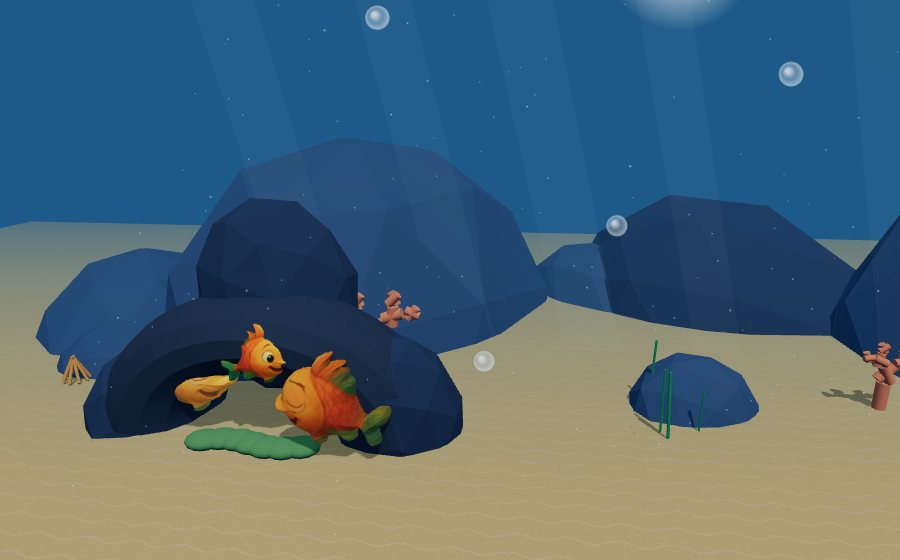
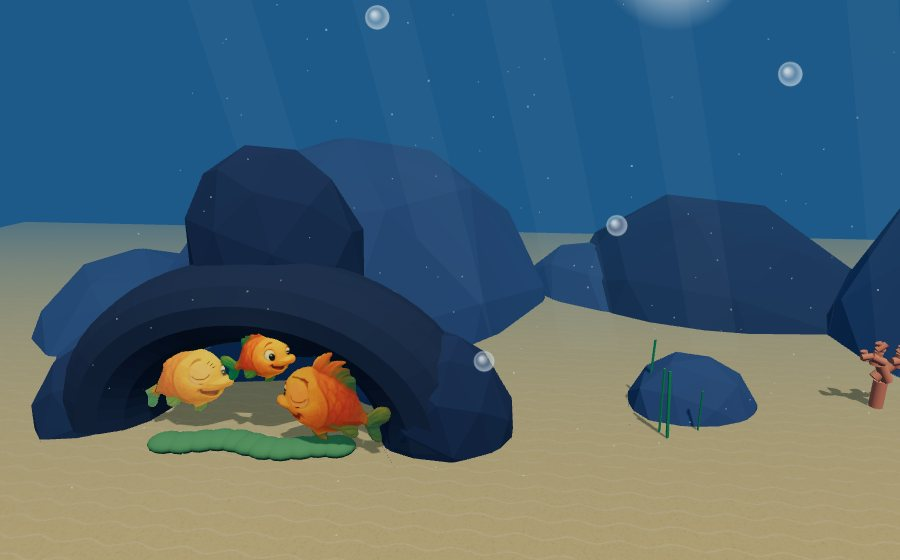
Fidibus 3D: Fische feiner – flache Flossen, sanfteres Licht, größere Höhle
- Dicke dünner Teile (Flossen) auf den Randabstand begrenzt, flacheres
  Superellipsen-Profil statt Kugel: Flossen bleiben zart wie in Version 1
- Figuren überwiegend selbstleuchtend, 3D-Licht formt nur noch leicht
  nach (keine doppelte Schattierung, Farben wie im Buch)
- Alpha nur 3 px nach außen gehärtet, Randknoten auf der Kontur: kein
  Fransen-Saum mehr
- Schwanzwedeln gedämpft, Kamera-Seitenversatz skaliert mit dem Abstand
- Wohnhöhle größer, Familie darin verteilt (auch nachts), Kartenbilder
  neu gerendert

Claude-Session: https://claude.ai/code/session_01UJUZeWQvUyQxZdWTLgeUri

diff --git a/fidibus3d/game.js b/fidibus3d/game.js
@@ -68,8 +68,8 @@ const G = {
   mode: 'title', t: 0, step: -1, stepData: null,
   cam: { x: HOME.x, y: 900 },
   fid: { x: HOME.x, y: HOME.y, vx: 0, vy: 0, dir: 1, tilt: 0, fin: 0, eyes: 'open', mood: 'happy', scale: 1, hidden: false },
-  mama: { x: HOME.x - 150, y: HOME.y + 40, vx: 0, vy: 0, dir: 1, tilt: 0, fin: 0, eyes: 'closed', mood: 'sleep', hidden: false },
-  papa: { x: HOME.x + 150, y: HOME.y + 50, vx: 0, vy: 0, dir: -1, tilt: 0, fin: 0, eyes: 'closed', mood: 'sleep', hidden: false },
+  mama: { x: HOME.x - 150, y: HOME.y - 20, vx: 0, vy: 0, dir: 1, tilt: 0, fin: 0, eyes: 'closed', mood: 'sleep', hidden: false },
+  papa: { x: HOME.x + 170, y: HOME.y + 50, vx: 0, vy: 0, dir: -1, tilt: 0, fin: 0, eyes: 'closed', mood: 'sleep', hidden: false },
   ctrl: null,             // welches Wesen gesteuert wird
   target: null, keys: {}, bubbles: 0, mut: 1, dark: 0, moon: 0, night: 0,
   collect: [], particles: [], hearts: [], trail: [],
@@ -249,8 +249,8 @@ $('again').addEventListener('click', () => { $('end').classList.remove('show'); 
 function startStory() {
   G.step = -1; G.bubbles = 0; G.mut = 1; G.dark = 0; G.moon = 0; G.night = 0; G.stationsDone = new Set(); G.current = 'home';
   Object.assign(G.fid, { x: HOME.x, y: HOME.y, vx: 0, vy: 0, dir: 1, eyes: 'open', mood: 'happy', hidden: false, scale: 1 });
-  Object.assign(G.mama, { x: HOME.x - 150, y: HOME.y + 40, vx: 0, vy: 0, dir: 1, eyes: 'closed', mood: 'sleep', hidden: false });
-  Object.assign(G.papa, { x: HOME.x + 150, y: HOME.y + 50, vx: 0, vy: 0, dir: -1, eyes: 'closed', mood: 'sleep', hidden: false });
+  Object.assign(G.mama, { x: HOME.x - 150, y: HOME.y - 20, vx: 0, vy: 0, dir: 1, eyes: 'closed', mood: 'sleep', hidden: false });
+  Object.assign(G.papa, { x: HOME.x + 170, y: HOME.y + 50, vx: 0, vy: 0, dir: -1, eyes: 'closed', mood: 'sleep', hidden: false });
   G.turtle.hug = 0; G.hearts = []; G.trail = []; G.homeArrived = false; G.blubbed = false; G.particles = []; G.cam.x = HOME.x; G.cam.y = 900;
   makeCollect(); if (window.FB) FB.rebuildCollect(); renderMap(); $('bubbles').textContent = '🫧 0';
   nextStep();
@@ -360,7 +360,7 @@ function update(dt) {
       G.mama.mood = G.papa.mood = 'happy';
     } else if (G.cut === 'night') {
       G.night = smooth(0, 0.5, p); G.moon = smooth(0.1, 0.7, p);
-      follow(G.fid, HOME.x + 10, HOME.y + 20, dt, 2, 250); follow(G.mama, HOME.x - 200, HOME.y - 30, dt, 2, 250); follow(G.papa, HOME.x + 230, HOME.y - 20, dt, 2, 250);
+      follow(G.fid, HOME.x + 10, HOME.y + 20, dt, 2, 250); follow(G.mama, HOME.x - 160, HOME.y - 40, dt, 2, 250); follow(G.papa, HOME.x + 200, HOME.y - 10, dt, 2, 250);
       G.mama.dir = 1; G.papa.dir = -1;
       if (p > 0.6) { G.fid.mood = 'sleep'; G.fid.dir = 1; }
       if (p > 0.85) { G.mama.eyes = G.papa.eyes = 'closed'; G.mama.mood = G.papa.mood = 'sleep'; }
@@ -447,9 +447,9 @@ for (let x = -6; x < 118; x += 5 + r3() * 6) {
 for (let i = 0; i < 150; i++) grassBlade(X(POS.grassFrom) + r3() * X(POS.grassTo - POS.grassFrom), -4 + r3() * 7, 7 + r3() * 4, i % 3 ? 0x1f5a3a : 0x2c7048, 0.14);
 // Felsspalte (Zuhause) mit Moosbett
 {
-  const arch = new THREE.Mesh(new THREE.TorusGeometry(2.6, 1.1, 14, 28, Math.PI), M(0x2f3f5c, { rough: 0.9, flat: true })); arch.position.set(X(HOME.x), Y(1300) + 0.2, -1.2); arch.scale.set(1.3, 1, 1.4); arch.castShadow = true; arch.receiveShadow = true; scene.add(arch);
-  rock(X(HOME.x) - 3.6, Y(1300) + 0.2, -1.5, 1.6); rock(X(HOME.x) + 3.6, Y(1300) + 0.3, -1.4, 1.7); rock(X(HOME.x), Y(1300) + 3.4, -2.4, 2.2);
-  for (let i = -3; i <= 3; i++) { const m = new THREE.Mesh(G_SPH2, M(0x5f9a63, { rough: 0.9 })); m.scale.set(0.5, 0.22, 0.45); m.position.set(X(HOME.x) + i * 0.45, Y(1300) + 0.12, 0.2 + Math.sin(i) * 0.15); m.receiveShadow = true; scene.add(m); }
+  const arch = new THREE.Mesh(new THREE.TorusGeometry(3.5, 1.1, 14, 28, Math.PI), M(0x2f3f5c, { rough: 0.9, flat: true })); arch.position.set(X(HOME.x), Y(1300) + 0.2, -1.2); arch.scale.set(1.3, 1, 1.4); arch.castShadow = true; arch.receiveShadow = true; scene.add(arch);
+  rock(X(HOME.x) - 4.9, Y(1300) + 0.2, -1.5, 1.7); rock(X(HOME.x) + 4.9, Y(1300) + 0.3, -1.4, 1.8); rock(X(HOME.x), Y(1300) + 4.6, -2.6, 2.4);
+  for (let i = -5; i <= 5; i++) { const m = new THREE.Mesh(G_SPH2, M(0x5f9a63, { rough: 0.9 })); m.scale.set(0.5, 0.22, 0.45); m.position.set(X(HOME.x) + i * 0.45, Y(1300) + 0.12, 0.2 + Math.sin(i) * 0.15); m.receiveShadow = true; scene.add(m); }
 }
 // Lichtstrahlen (zarte Flächen) und Plankton
 const rays = new THREE.Group(); scene.add(rays);
@@ -469,6 +469,7 @@ function spriteFrom(kind) { const arr = pool[kind]; const s = arr.find(x => !x.v
 // ───────────── Figuren ─────────────
 // Buchbilder laden (aus Version 1) und Mama/Papa daraus ableiten
 const IMG = {};
+window.BOOK_TWEAK = Object.fromEntries([...new URLSearchParams(location.search)].filter(([k]) => ['fat', 'p', 'em', 'col'].includes(k)).map(([k, v]) => [k, +v]));
 await Promise.all(['fid_happy', 'fid_talk', 'fid_sad', 'fid_worried', 'fid_sleep', 'fid_front'].map(k => new Promise(res => { const im = new Image(); im.onload = res; im.onerror = res; im.src = '../fidibus/img/' + k + '.png'; IMG[k] = im; })));
 const fidPoses = {}; for (const k in IMG) if (IMG[k].width) fidPoses[k] = { src: IMG[k], face: BOOK_SPR[k].face, w: BOOK_SPR[k].w, eyes: BOOK_EYES[k] };
 const parentPose = kind => { const p = window.FIG.parent(IMG.fid_happy, kind); return { [kind]: { src: p.c, face: p.face, w: BOOK_SPR[kind].w, eyes: p.eyes } }; };
@@ -477,10 +478,10 @@ const fidM = makeBookFish('fid', fidPoses), mamaM = makeBookFish('mama', parentP
 // Wal, Schildkröte (mit Umarmung), Seestern und Qualle: die gemalten Figuren aus Version 1, ebenfalls aufgeblasen
 const FIGS = window.FIG.build(IMG);
 const bookPose = (k, extra) => ({ src: FIGS[k].c, w: BOOK_SPR_BIG[k], eyes: FIGS[k].eyes, ...extra });
-const whaleM = makeBookFigure('whale', { whale: bookPose('whale', { tail: 'right', fat: 0.6 }) });
-const turtleM = makeBookFigure('turtle', { turtle: bookPose('turtle', { fat: 0.55 }), hug: bookPose('hug', { fat: 0.55 }) });
-const starM = makeBookFigure('star', { star: bookPose('star', { fat: 0.45 }) });
-const jellyM = makeBookFigure('jelly', { jelly: bookPose('jelly', { fat: 0.7, alphaMin: 90, res: 300 }) });
+const whaleM = makeBookFigure('whale', { whale: bookPose('whale', { tail: 'right', fat: 0.5 }) });
+const turtleM = makeBookFigure('turtle', { turtle: bookPose('turtle', { fat: 0.5 }), hug: bookPose('hug', { fat: 0.5 }) });
+const starM = makeBookFigure('star', { star: bookPose('star', { fat: 0.35 }) });
+const jellyM = makeBookFigure('jelly', { jelly: bookPose('jelly', { fat: 0.55, alphaMin: 90, res: 300 }) });
 const jellyLight = new THREE.PointLight(0xd9a6ff, 2.2, 14, 1.6); jellyLight.position.set(0, 1.5, 0.8); jellyM.add(jellyLight);
 scene.add(fidM, mamaM, papaM, whaleM, starM, jellyM, turtleM);
 const WHALE_Y = Y(660), JELLY_Y = Y(948) + 1.4;
@@ -494,7 +495,7 @@ const blink = (period, off) => { const ph = (G.t + off) % period; return ph < 0.
 
 function syncFish(m, f, kind, off) {
   m.visible = !f.hidden;
-  m.position.set(X(f.x), Y(f.y) + Math.sin(f.fin * 0.9) * 0.03, kind === 'mama' ? -0.6 : kind === 'papa' ? 0.3 : 0);
+  m.position.set(X(f.x), Y(f.y) + Math.sin(f.fin * 0.9) * 0.03, kind === 'mama' ? -0.5 : kind === 'papa' ? 0.25 : 0);
   const front = f.mood === 'front';
   const yaw = front ? 0 : (f.dir > 0 ? Math.PI : 0);
   m.rotation.set(0, yaw, (f.dir > 0 ? 1 : -1) * -f.tilt * 0.8 * (front ? 0 : 1));
@@ -537,7 +538,7 @@ function render3d(dt) {
   // Kamera: schräg von vorn, folgt dem 2D-Kamerapunkt
   const dist = (H > W ? 15 : 11.5) / zoom;
   const lx = X(G.cam.x), ly = Y(G.cam.y) + 0.4;
-  camera.position.set(lx + 1.6, ly + 2.2 + dist * 0.12, dist);
+  camera.position.set(lx + dist * 0.11, ly + 2.2 + dist * 0.12, dist);
   camera.lookAt(lx, ly, 0);
   sun.position.set(lx + 6, 26, 14); sun.target.position.set(lx, Y(1300), 0);
   renderer.render(scene, camera);

diff --git a/fidibus3d/figures3d.js b/fidibus3d/figures3d.js
@@ -333,11 +333,11 @@ function bleed(img, passes, harden = 0, alphaMin = 190) {
 function inflate(src, worldW, opts = {}) {
   const iw = src.width, ih = src.height, step = Math.max(1, Math.round(Math.max(iw, ih) / (opts.res || 130)));
   const cols = Math.ceil(iw / step) + 3, rows = Math.ceil(ih / step) + 3;
-  // Quellbild mit transparentem Rand (pad), darin geblutete Farben und nach außen gehärtetes Alpha:
-  // Die Netzkante liegt dann in opaker Textur (kein transparentes Band an der Kante, auch wenn das Bild den Rand berührt)
+  // Quellbild mit transparentem Rand (pad), darin geblutete Farben und um 3 px nach außen gehärtetes Alpha:
+  // Die auf die Kontur geschobenen Randknoten liegen in opaker Textur, alles weiter außen schneidet der Alpha-Test sauber ab
   const pad = step * 2 + 4, cw = iw + 2 * pad, ch = ih + 2 * pad;
   const base = document.createElement('canvas'); base.width = cw; base.height = ch; const bg = base.getContext('2d'); bg.drawImage(src, pad, pad);
-  const idata = bg.getImageData(0, 0, cw, ch); const A0 = new Uint8ClampedArray(idata.data); bleed(idata, step + 6, step + 2, opts.alphaMin ?? 190); bg.putImageData(idata, 0, 0);
+  const idata = bg.getImageData(0, 0, cw, ch); const A0 = new Uint8ClampedArray(idata.data); bleed(idata, step + 6, 3, opts.alphaMin ?? 190); bg.putImageData(idata, 0, 0);
   const c = document.createElement('canvas'); c.width = cw; c.height = ch; const g = c.getContext('2d'); g.drawImage(base, 0, 0);
   const PX = q => (q - 1) * step, PY = r => (r - 1) * step;
   // innen = Original-Pixel in unmittelbarer Nähe des Knotens ist opak (Textur ist um step+2 px gehärtet, Randknoten liegen also in opaker Textur)
@@ -362,9 +362,12 @@ function inflate(src, worldW, opts = {}) {
   for (let r = 0; r < rows; r++) for (let q = 0; q < cols; q++) { const i = r * cols + q; if (!ins[i]) continue; D[i] = Math.min(D[i], at(r - 1, q) + 1, at(r, q - 1) + 1, at(r - 1, q - 1) + 1.414, at(r - 1, q + 1) + 1.414); }
   for (let r = rows - 1; r >= 0; r--) for (let q = cols - 1; q >= 0; q--) { const i = r * cols + q; if (!ins[i]) continue; D[i] = Math.min(D[i], at(r + 1, q) + 1, at(r, q + 1) + 1, at(r + 1, q + 1) + 1.414, at(r + 1, q - 1) + 1.414); }
   let dmax = 0; for (let i = 0; i < D.length; i++) if (D[i] < INF) dmax = Math.max(dmax, D[i]);
-  const cap = dmax * (opts.cap ?? 0.92), k = worldW / iw, Tz = cap * step * k * (opts.fat ?? 0.85);
+  const TW = (typeof window !== 'undefined' && window.BOOK_TWEAK) || {};
+  const cap = dmax * (opts.cap ?? 0.92), k = worldW / iw, Tz = cap * step * k * (opts.fat ?? TW.fat ?? 0.55), PP = opts.p ?? TW.p ?? 3;
   // Kugelprofil, aber der erste Knoten innen springt nur halb so hoch: dünne Flossen bleiben flach, die Kante wird weicher
-  const zOf = d => { const n = Math.max(0, Math.min(d, cap) - 0.6) / cap; return Tz * Math.sqrt(Math.max(0, 1 - (1 - n) * (1 - n))); };
+  // Superellipsen-Profil: PP = 2 Kugel, größer = flachere Fläche mit runder Kante (Bild bleibt in der Mitte unverzerrt)
+  // Dünne Teile (Flossen) bleiben flach: Die Dicke darf höchstens das 1,1-fache des Randabstands betragen (runde Kante mit ~50°)
+  const zOf = d => { const n = Math.max(0, Math.min(d, cap) - 0.6) / cap; return Math.min(Tz * Math.pow(Math.max(0, 1 - Math.pow(1 - n, PP)), 1 / PP), Math.max(0, d - 0.3) * step * k * 1.1); };
   // Schwanzansatz: schmalste Stelle zwischen dem breitesten Körperteil und der Schwanzflosse
   let split = -1;
   if (opts.tail) {
@@ -375,7 +378,9 @@ function inflate(src, worldW, opts = {}) {
     if (split > 0 && best > ext[qMax] * 0.6) split = -1;
   }
   const tex = new THREE.CanvasTexture(c); tex.colorSpace = THREE.SRGBColorSpace; tex.anisotropy = 4;
-  const mat = new THREE.MeshStandardMaterial({ map: tex, alphaTest: 0.5, roughness: 0.9, metalness: 0, side: THREE.FrontSide, emissive: 0xffffff, emissiveMap: tex, emissiveIntensity: 0.32 });
+  // Die Malerei bringt ihre eigene Schattierung mit: überwiegend selbstleuchtend, das 3D-Licht formt nur noch leicht nach
+  const lit = TW.col ?? 0.5;
+  const mat = new THREE.MeshStandardMaterial({ map: tex, color: new THREE.Color(lit, lit, lit), alphaTest: 0.5, roughness: 0.95, metalness: 0, side: THREE.FrontSide, emissive: 0xffffff, emissiveMap: tex, emissiveIntensity: TW.em ?? 0.7 });
   const wx = i => (nx[i] - iw / 2) * k, wy = i => (ih / 2 - ny[i]) * k;
   function build(qFrom, qTo, x0) {
     const pos = [], uv = [], idx = []; const id = new Int32Array(cols * rows).fill(-1); let n = 0;
@@ -419,7 +424,7 @@ function inflate(src, worldW, opts = {}) {
 export function makeBookFigure(kind, poses) {
   const g = new THREE.Group(); const P = {};
   for (const key in poses) {
-    const p = poses[key]; const inf = inflate(p.src, p.w * BOOK_K, { tail: p.tail, eyes: p.eyes, fat: p.fat ?? 0.85, alphaMin: p.alphaMin, res: p.res });
+    const p = poses[key]; const inf = inflate(p.src, p.w * BOOK_K, { tail: p.tail, eyes: p.eyes, fat: p.fat, p: p.p, alphaMin: p.alphaMin, res: p.res });
     inf.group.rotation.y = p.flip ? Math.PI : 0; inf.group.visible = false; g.add(inf.group); P[key] = inf;
   }
   g.userData.book = { poses: P, kind, current: null };
@@ -439,7 +444,7 @@ export function animBook(g, t, o) {
 // Fische: Posen aus Version-1-Sprites { src, face, w, eyes }
 export function makeBookFish(kind, poses) {
   const spec = {};
-  for (const key in poses) { const p = poses[key]; const front = key === 'fid_front'; spec[key] = { src: p.src, w: p.w, eyes: p.eyes, tail: front ? null : (p.face < 0 ? 'right' : 'left'), flip: p.face > 0, fat: front ? 0.6 : 0.85 }; }
+  for (const key in poses) { const p = poses[key]; const front = key === 'fid_front'; spec[key] = { src: p.src, w: p.w, eyes: p.eyes, tail: front ? null : (p.face < 0 ? 'right' : 'left'), flip: p.face > 0, fat: front ? 0.45 : undefined }; }
   return makeBookFigure(kind, spec);
 }
 export function animBookFish(g, t, o) {
@@ -448,6 +453,6 @@ export function animBookFish(g, t, o) {
     key = o.mood === 'sleep' ? 'fid_sleep' : o.mood === 'sad' ? 'fid_sad' : o.mood === 'worried' ? 'fid_worried' : o.mood === 'front' ? 'fid_front' : 'fid_happy';
     if (o.talking && (o.mood === 'happy' || o.mood === 'front') && Math.floor(t * 7) % 2 === 0 && B.poses.fid_talk) key = 'fid_talk';
   }
-  const sp = o.speed || 0, wag = Math.sin(t * (6 + sp * 1.5)) * (o.moving ? 0.45 : 0.16);
+  const sp = o.speed || 0, wag = Math.sin(t * (6 + sp * 1.5)) * (o.moving ? 0.3 : 0.12);
   animBook(g, t, { pose: key, lids: o.mood === 'sleep' || (o.blink || 0) > 0 ? 1 : 0, wag, tilt: o.talking ? Math.sin(t * 13) * 0.025 : 0, pulse: Math.sin(t * 1.8) * 0.015 });
 }
